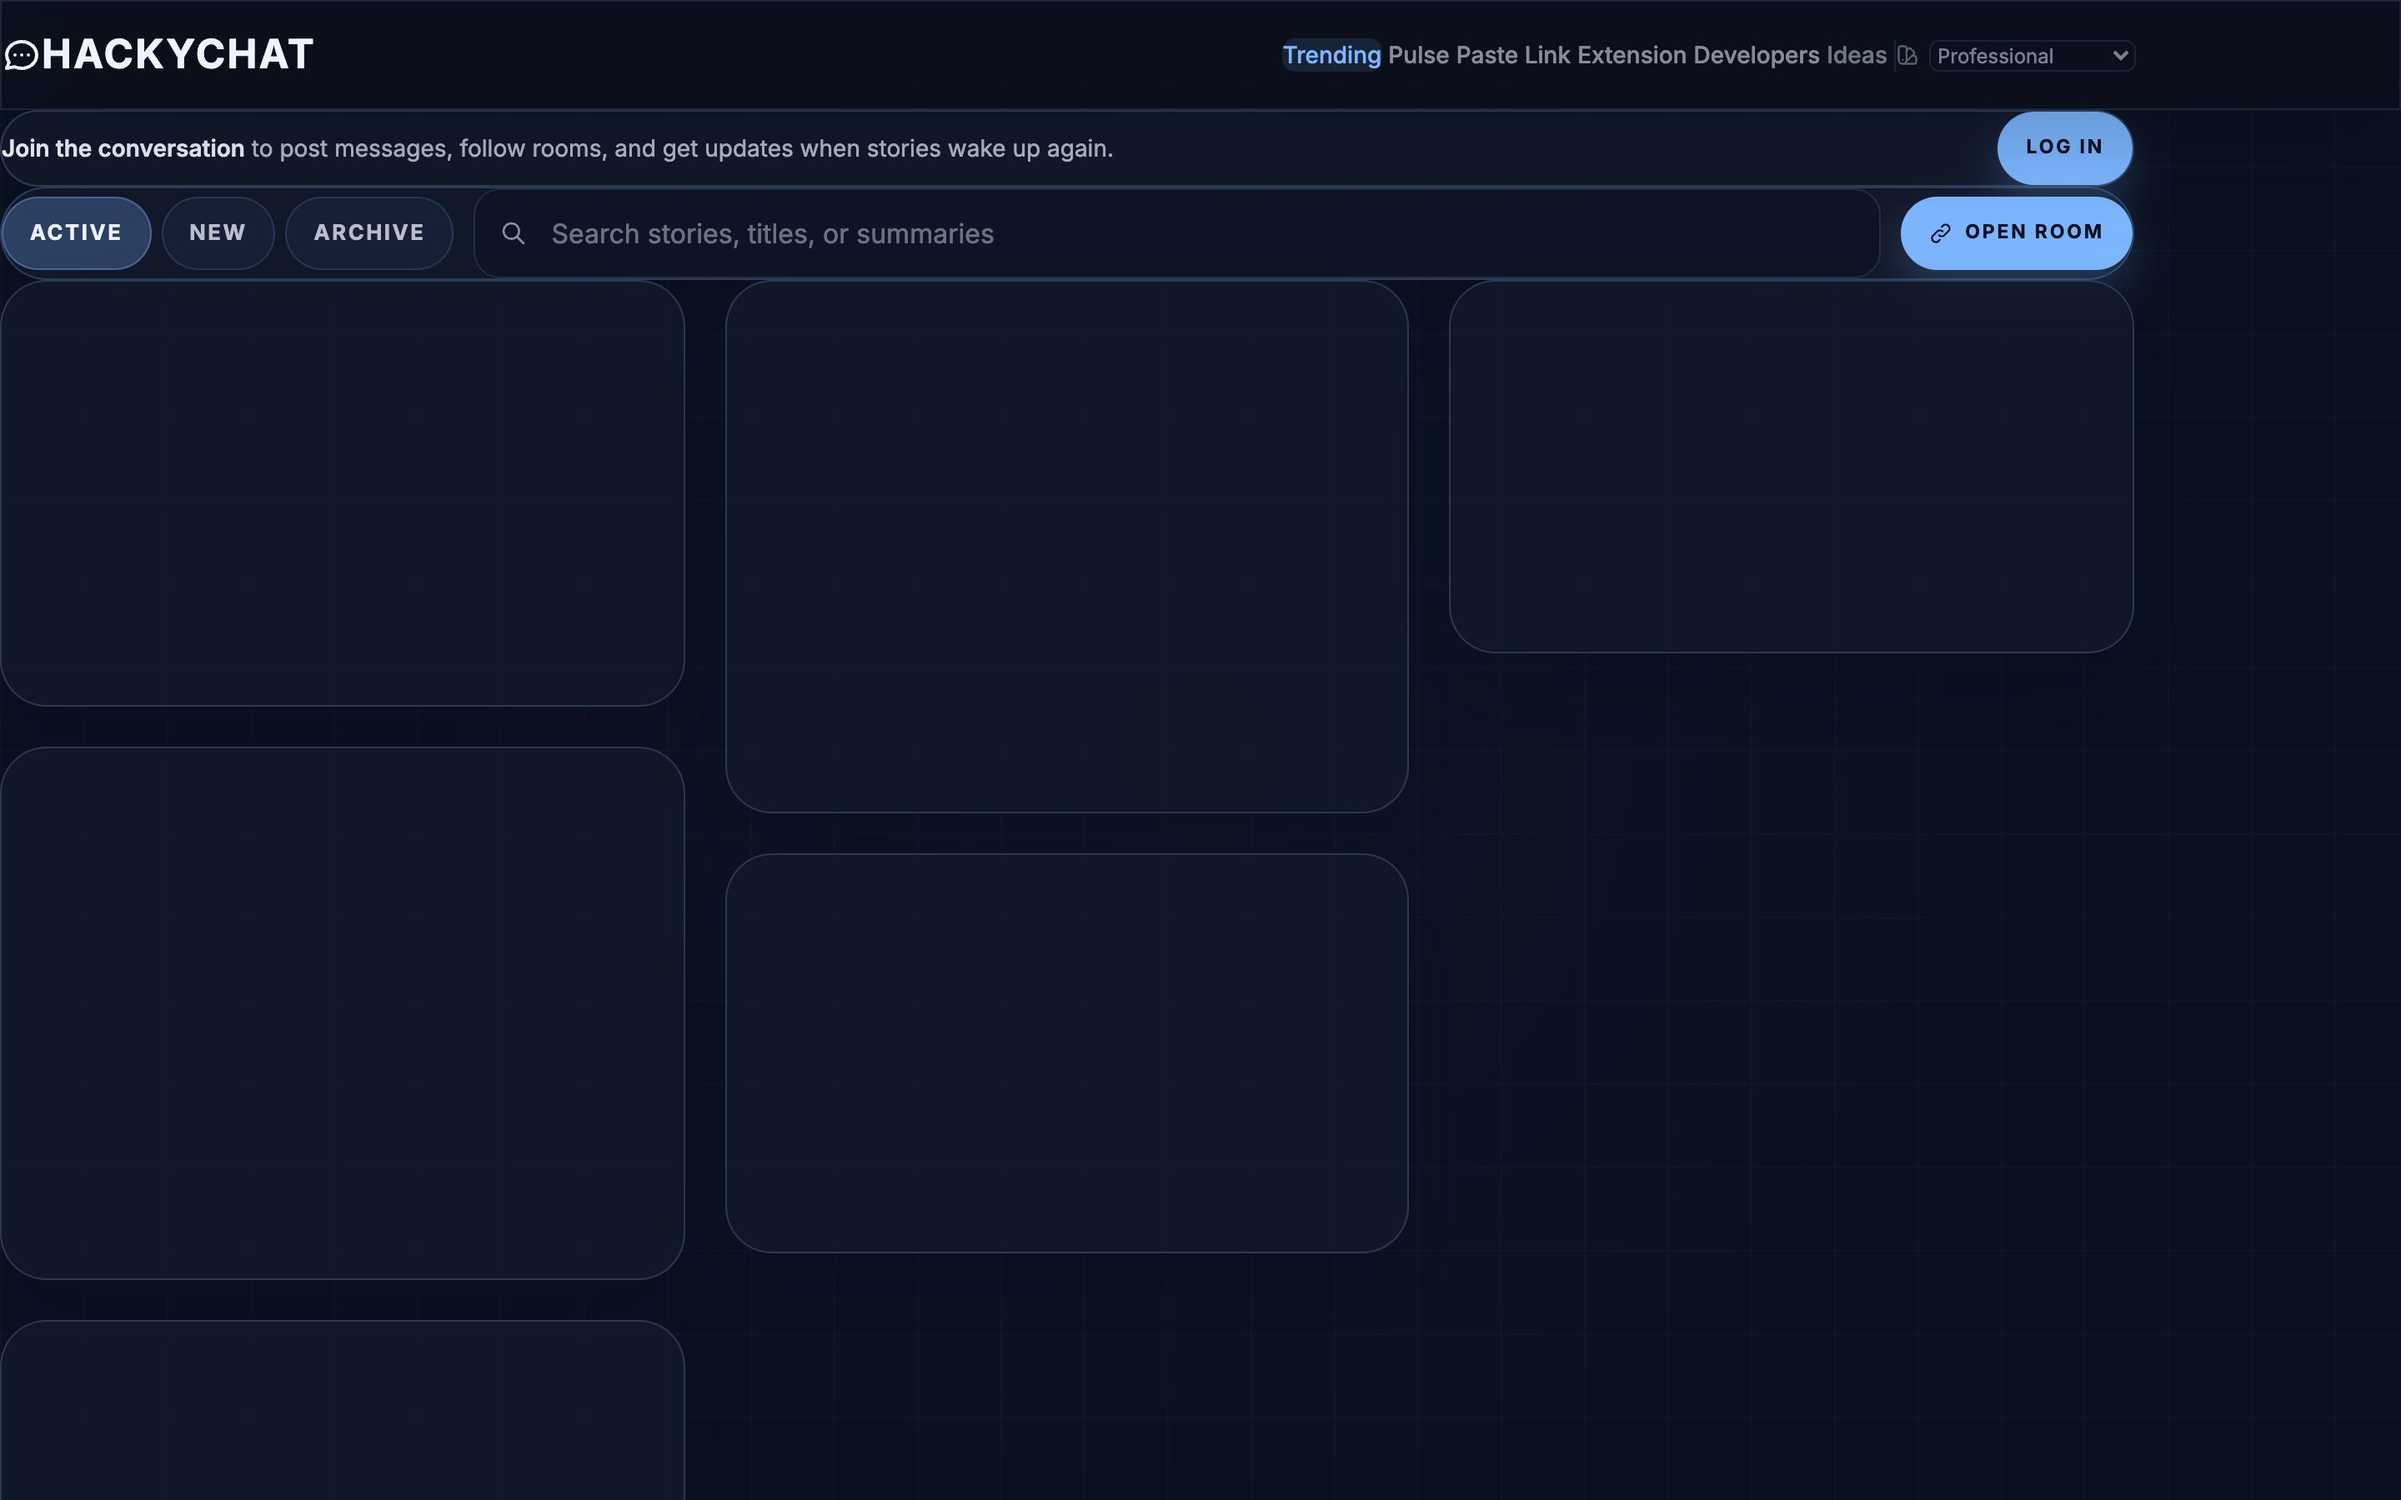
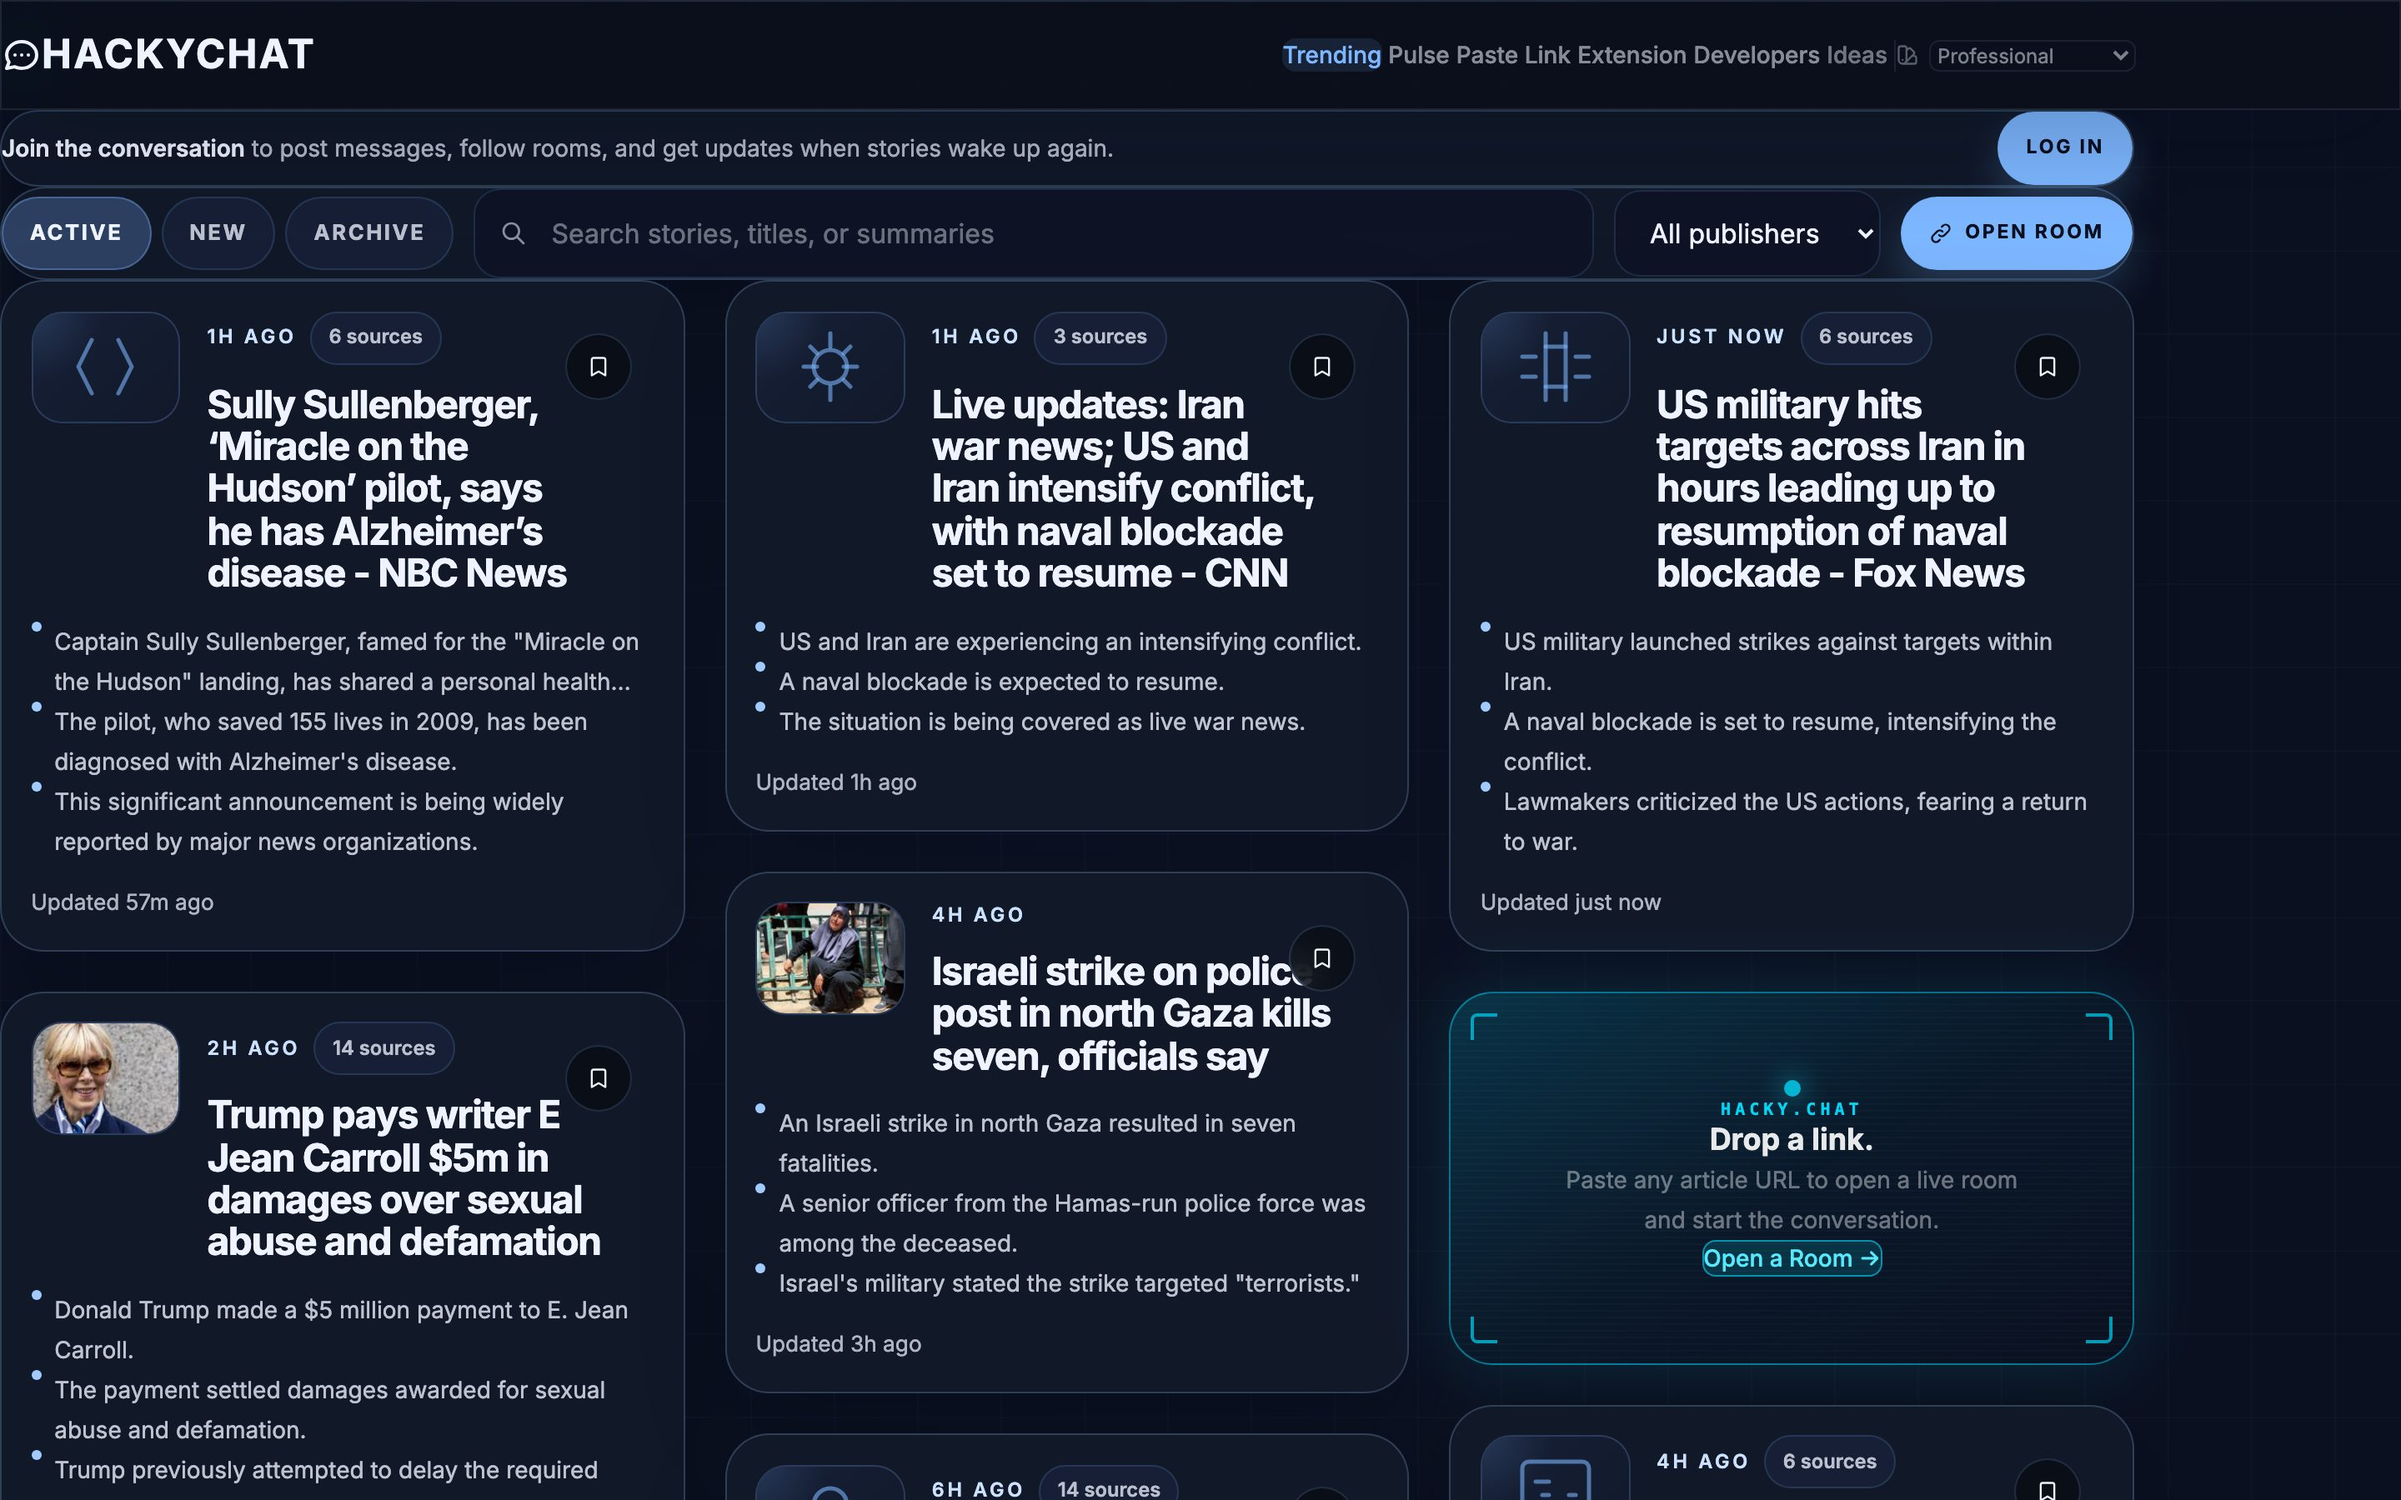
Wait for HackyChat cards before capturing the work shot.
The trending feed is a ~2MB payload, so a fixed sleep left empty shells; wait for real titles and cache-bust the new JPEG.

diff --git a/index.html b/index.html
@@ -79,7 +79,7 @@
                             <div class="work-shot" aria-hidden="true">
                                 <div class="work-shot__chrome"><span></span><span></span><span></span></div>
                                 <div class="work-shot__frame">
-                                    <img src="images/work/catamist.jpg" alt="" width="1440" height="900" loading="lazy" decoding="async">
+                                    <img src="images/work/catamist.jpg?v=filled1" alt="" width="1440" height="900" loading="lazy" decoding="async">
                                 </div>
                             </div>
                             <div class="work-body">
@@ -95,7 +95,7 @@
                             <div class="work-shot" aria-hidden="true">
                                 <div class="work-shot__chrome"><span></span><span></span><span></span></div>
                                 <div class="work-shot__frame">
-                                    <img src="images/work/hackychat.jpg" alt="" width="1440" height="900" loading="lazy" decoding="async">
+                                    <img src="images/work/hackychat.jpg?v=filled1" alt="" width="1440" height="900" loading="lazy" decoding="async">
                                 </div>
                             </div>
                             <div class="work-body">
@@ -111,7 +111,7 @@
                             <div class="work-shot" aria-hidden="true">
                                 <div class="work-shot__chrome"><span></span><span></span><span></span></div>
                                 <div class="work-shot__frame">
-                                    <img src="images/work/relayra.jpg" alt="" width="1440" height="900" loading="lazy" decoding="async">
+                                    <img src="images/work/relayra.jpg?v=filled1" alt="" width="1440" height="900" loading="lazy" decoding="async">
                                 </div>
                             </div>
                             <div class="work-body">
@@ -127,7 +127,7 @@
                             <div class="work-shot" aria-hidden="true">
                                 <div class="work-shot__chrome"><span></span><span></span><span></span></div>
                                 <div class="work-shot__frame">
-                                    <img src="images/work/joshmenu.jpg" alt="" width="1440" height="900" loading="lazy" decoding="async">
+                                    <img src="images/work/joshmenu.jpg?v=filled1" alt="" width="1440" height="900" loading="lazy" decoding="async">
                                 </div>
                             </div>
                             <div class="work-body">
@@ -143,7 +143,7 @@
                             <div class="work-shot" aria-hidden="true">
                                 <div class="work-shot__chrome"><span></span><span></span><span></span></div>
                                 <div class="work-shot__frame">
-                                    <img src="images/work/calledfrom.jpg" alt="" width="1440" height="900" loading="lazy" decoding="async">
+                                    <img src="images/work/calledfrom.jpg?v=filled1" alt="" width="1440" height="900" loading="lazy" decoding="async">
                                 </div>
                             </div>
                             <div class="work-body">

diff --git a/docs/README.md b/docs/README.md
@@ -9,10 +9,16 @@ Static GitHub Pages portfolio and hireable studio site for `joshbubis.com`.
 - `style.css` — atelier design system (Syne + Instrument Sans, light paper stage)
 - `script.js` — hero field (quiet), scroll reveals, work-rail auto-cycle + drag
 - `images/work/*.jpg` — homepage captures for work cards (**manual** refresh only)
-- `scripts/capture-work.mjs` — regenerate captures with Playwright (`node scripts/capture-work.mjs`), then commit + push
+- `scripts/capture-work.mjs` — regenerate captures with Playwright (`npm install && npm run capture-work`), then commit + push
+- `package.json` — Playwright devDependency for captures only
 
 Screenshots do **not** auto-update on a schedule. They only change when someone re-runs
 the capture script and deploys. Do that when a product homepage changes meaningfully.
+
+The capture script waits for real content (not just DOM ready). HackyChat especially needs
+this — its homepage pulls a large `trending_grouped` payload (~2MB / ~150 groups) before cards
+fill in. If a shot still looks empty, bump that site’s `timeoutMs` / `ready` selector in the
+script. Speeding HackyChat itself means shrinking that API response (product work, separate repo).
 - `CNAME` — custom domain for GitHub Pages
 - `AGENTS.md` — agent folder boundaries
 
